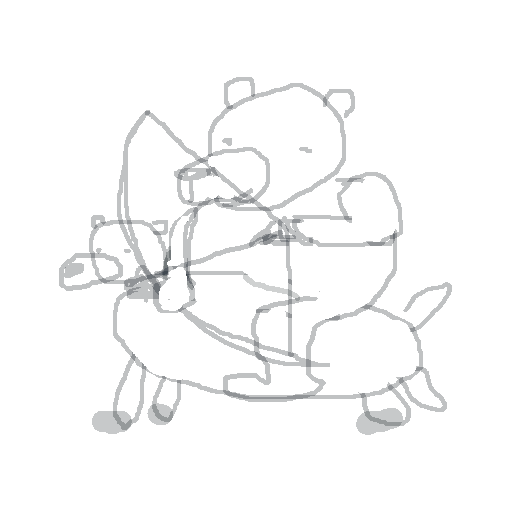
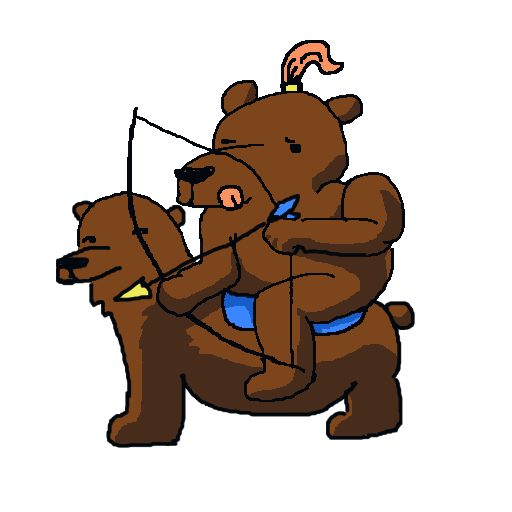
mongol bear has color

diff --git a/aoe-front/src/App.js b/aoe-front/src/App.js
@@ -11,11 +11,6 @@ const App = () => {
     civService.getAll().then(civs =>
       setCivs(civs))
   }, [])
-
-  useEffect(() => {
-    civService.getCiv().then(civ =>
-      setTesti(civ))
-  }, [])
   
   const changePage = ({ page, chosenCiv}) => {
     console.log("props: ",page, chosenCiv)

diff --git a/aoe-back/index.js b/aoe-back/index.js
@@ -173,7 +173,6 @@ app.get('/api/civs/:id', (req, res) => {
   }
 
   res.send({ unit: highestValueUnit, value: highestValue });
-  res.json(civs)
 })
 
 const PORT = process.env.PORT || 3001
